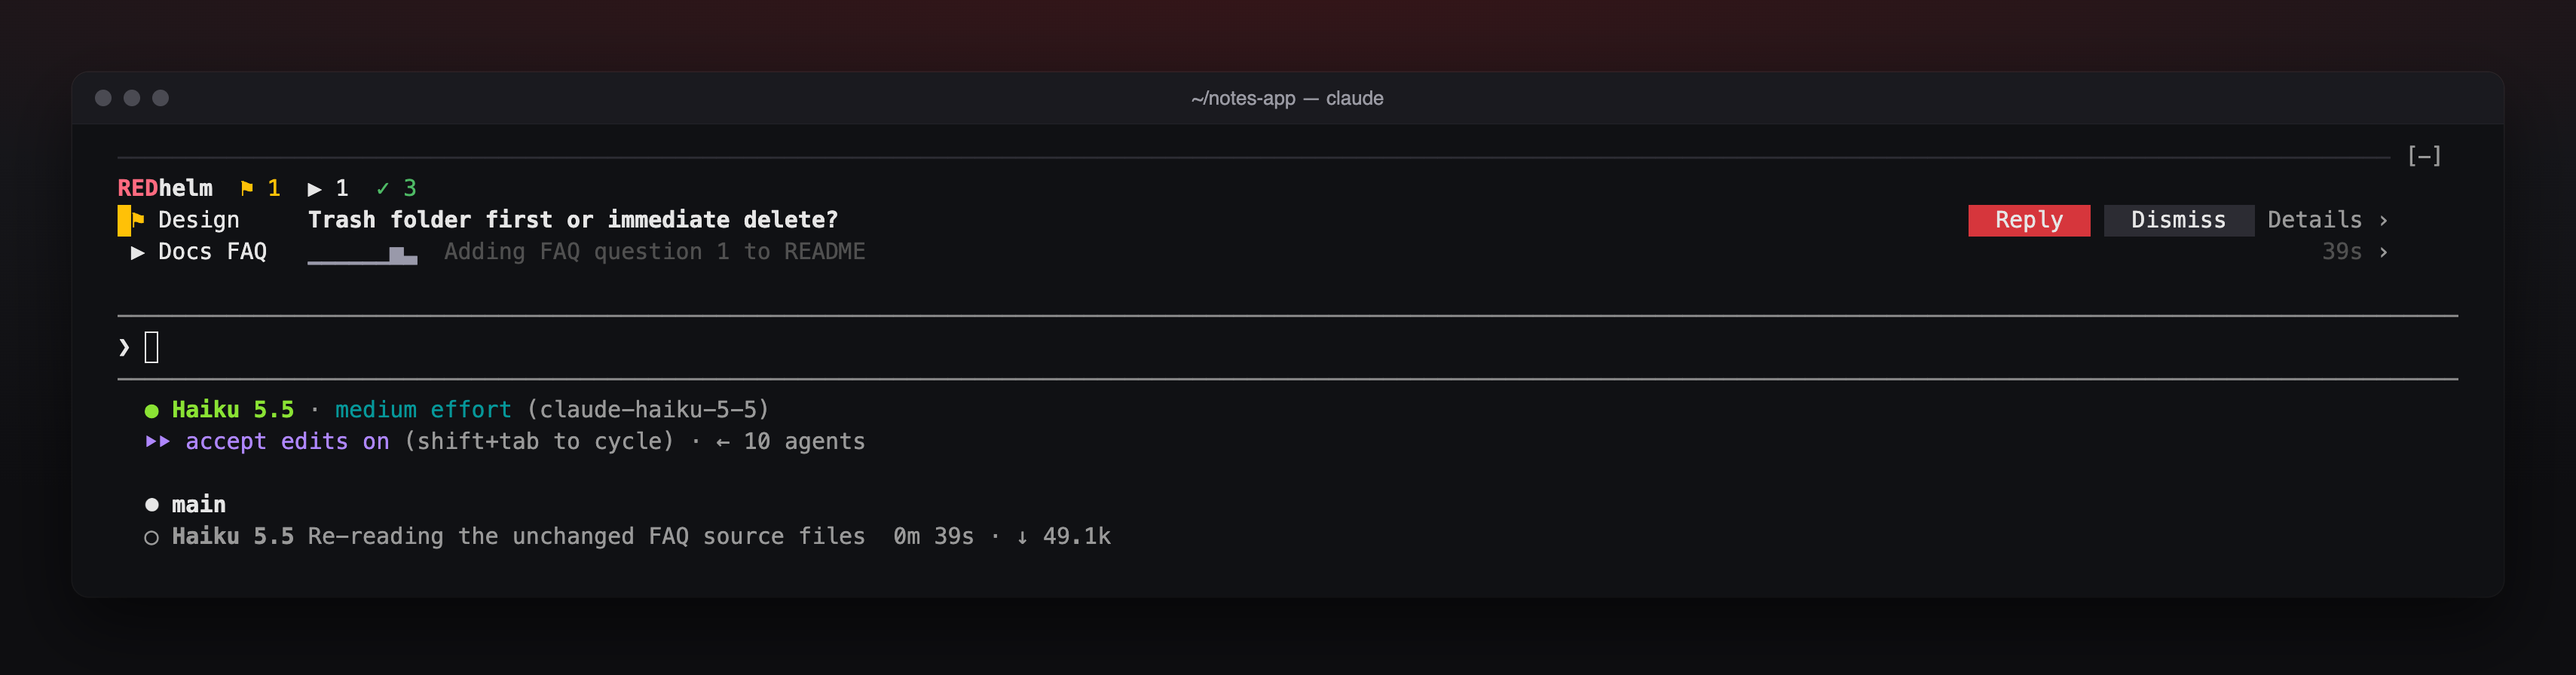
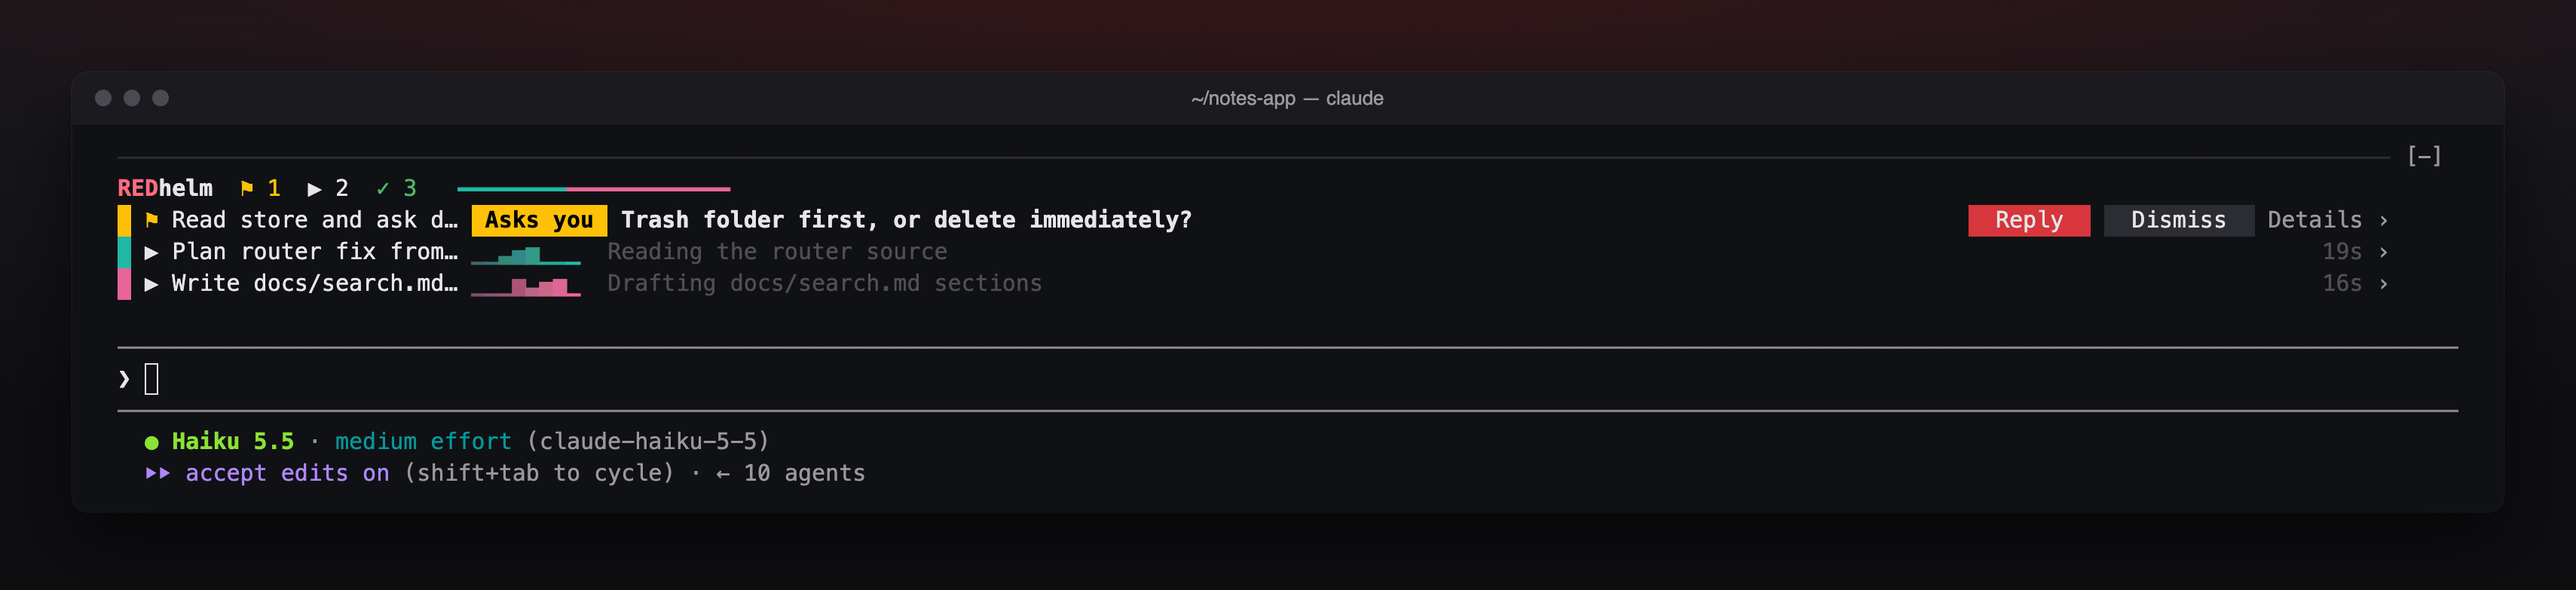
A README that shows REDhelm at work: new images, an animated demo, clearer docs
New screenshots from a live session: the sidebar with a question and three
working agents, the agent sheet, the bar above the prompt, the light theme,
and the four backgrounds side by side, plus a short animation of traces and
rings. The README leads with install and a quick tour, then each feature,
commands, settings, troubleshooting, and privacy and cost. Plugin and
marketplace descriptions match.

diff --git a/README.md b/README.md
@@ -1,168 +1,195 @@
+<div align="center">
+
 # REDhelm
 
-A live sidebar for your Claude Code agents. See what every agent is doing, where its
-work is landing, and which one needs you — and know which model is actually answering.
+**A live control panel for your Claude Code agents.**<br>
+See what every agent is doing, answer the ones that need you, and know which model is really answering, without leaving the terminal.
 
-![REDhelm docked beside the conversation: one agent asks a question, two are working](docs/images/redhelm-right.png)
+[![Release](https://img.shields.io/github/v/release/watLr/redhelm?color=d6363c&label=release)](https://github.com/watLr/redhelm/releases)
+[![License: MIT](https://img.shields.io/badge/license-MIT-555)](LICENSE)
+[![Claude Code](https://img.shields.io/badge/Claude%20Code-2.1.289%2B-555)](https://claude.com/claude-code)
 
-> **Status: early release (0.7.1).** Covered by tests and checked with real agents:
-> the agent list and sheet, **Message** and **Stop**, the model guard, settings and
-> workflows. Issues welcome.
+<img src="docs/images/redhelm-right.png" alt="REDhelm docked beside a Claude Code conversation: one agent asks a question, three are working" width="920">
 
-## What it does
-
-<img src="docs/images/redhelm-sheet.png" alt="An agent's sheet: its live trace, task, steps, files, model and last words" width="300" align="right">
-
-- **Every agent is a live signal.** One row per agent, on one aligned grid: a state
-  glyph, its name, a trace of its tool calls over the last half minute, and how long it
-  has run. The trace moves while the agent works and flattens when it goes quiet. Under
-  the name, a few words on what it is doing.
-- **Each agent has its colour.** A stripe down its row, and its trace drawn as a comet
-  tail: full colour at the newest call, fading to grey into the past. Under REDhelm's
-  name, a thin line in the same colours shows each working agent's share of the last
-  minute's tool calls, so the busiest one is the longest.
-- **A live background.** In the sidebar, REDhelm sits on black with a quiet grid of `+`
-  signs. Each tool call sends a ring through the grid in its agent's colour, from its
-  place on the activity line. Rows sit on plates of the background's colour, so text
-  never lands on the pattern. The **Background** setting also offers a still grid, drifting
-  ASCII clouds (the way an ASCII video renderer draws), a slow red glow, or none.
-  REDhelm follows Claude Code's theme (`/theme`): black with a grey grid in a dark theme,
-  white with a light grey one in a light theme; with `auto`, it follows your desktop's
-  appearance. If your terminal is light but Claude Code's theme is dark, Claude Code draws
-  dark colours and so does REDhelm: set `/theme` to light to match.
-- **States at a glance.** `▶` working · `▷` quiet (no action for 15 minutes) · `◆`
-  waiting on another agent or on work it started · `⚑` asks you · `✓` finished · `✕`
-  failed or stopped. The header counts them: `⚑ 1  ▶ 2  ✓ 1`.
-- **Words written for you.** Claude Code's small model (Haiku, low effort) writes each
-  working agent's headline ("Editing setup.md troubleshooting") and each question's
-  short title, the way `/btw` answers a side question. REDhelm's own plain words show
-  until a label arrives, and whenever the model is slow or switched off.
-- **Agent sheet.** Click an agent for its trace over the last minute, its task, latest
-  steps, the files it changed, its model and effort, and its last words. Agents that
-  started before REDhelm are filled in from Claude Code's record of their conversation.
-  In the sidebar the sheet takes the panel's place, with **← Back** to your agents; from
-  the bar above the prompt it opens on its own and closes with Esc.
-- **Message and Stop** appear when you point at a working agent, and sit at the top of
-  its sheet.
-- **Messaging an agent.** Message fills your prompt with `→ name: `; type and press Enter
-  to send it to that agent instead of Claude (you can also type `→ name: message`
-  yourself). What you were typing to Claude is kept and comes back after. Changed your
-  mind? **Cancel** on the "Writing to …" line puts your draft back.
-- **Needs you.** An agent that asks you something gets a card with an amber edge, its
-  question in a line and a **Reply** button; the whole question is in its sheet. Claude
-  Code's small, fast model tells a question from a report (with a plain check of the
-  wording if the model can't be reached); a report is not a question, so it pops up
-  briefly and becomes the agent's last words in its sheet instead. A
-  question clears once you or Claude answer it. From an agent that has ended, it stays
-  30 minutes (a reply still resumes that agent), with **Dismiss** to put it away sooner.
-- **Updates.** When a newer REDhelm is published, a quiet line at the bottom of the
-  panel says so, with **Update**. Nothing pops up. A copy run from a local folder is
-  its own source and is never offered one.
-- **Where work lands.** A warning when two live agents edit the same file.
-- **Workflows.** Picks up lane boards (`docs/aaa/board/lanes.json`), status boards
-  (`.status-board/`), REDStudio (`.redstudio/`) and REDManager (`.redmanager/`) in the
-  project and shows their progress.
-- **Model guard.** If Claude Code switches models on its own, your next prompt and
-  Claude's tools wait until you choose with `/model`. If your saved default moved to a
-  newer version, the session tells you once.
-- **Long-turn notifications.** A desktop notification (macOS, Linux) when a long turn
-  finishes.
+</div>
 
 ## Install
 
-Requires Claude Code with function-hook mods (2.1.289 or newer).
-
-```
+```sh
 claude plugin marketplace add watLr/redhelm
 claude plugin install redhelm@redhelm
 ```
 
-Restart running sessions (`/restart`) to load it.
+Then restart running sessions (`/restart`). REDhelm opens by itself when agents start, or run `/redhelm`.
 
-## Use
+**Needs:** Claude Code 2.1.289 or newer. The sidebar needs the fullscreen layout (`/tui fullscreen`) and a terminal at least 110 columns wide; otherwise REDhelm sits above the prompt.
 
-| Command | |
+## At a glance
+
+<img src="docs/images/redhelm-live.gif" alt="REDhelm live: activity traces grow, rings cross the background, an agent finishes" width="360" align="right">
+
+- **Live agent list.** One aligned row per agent: its state, name, a trace of its tool calls, and how long it has run.
+- **Questions first.** An agent that asks you something gets an amber card with **Reply**, at the top.
+- **Plain words.** A short headline under each agent, written by Claude Code's small model.
+- **One click deep.** Click an agent for its task, steps, files, model and last words.
+- **Message and Stop.** Point at a working agent to message it or stop it.
+- **Model guard.** Holds your prompt if Claude Code switches models on its own.
+- **A live background.** Each tool call sends a ring through the sidebar in its agent's colour.
+- **Light and dark.** Follows Claude Code's theme.
+
+<br clear="right">
+
+## What you see
+
+### Every agent is a live signal
+
+Each agent has its own colour: a stripe down its row, and a trace of its tool calls over the last half minute, brightest at the newest call and fading into the past. The trace moves while the agent works and flattens when it goes quiet. Under REDhelm's name, a thin line in the same colours shows each working agent's share of the last minute's calls, so the busiest one is the longest.
+
+| Glyph | State |
+|:---:|---|
+| `▶` | working |
+| `▷` | quiet: no action for 15 minutes |
+| `◆` | waiting on another agent, or on work it started |
+| `⚑` | asks you something |
+| `✓` | finished |
+| `✕` | failed or stopped |
+
+The header counts them (`⚑ 1  ▶ 3  ✓ 2`). Finished agents fold into one line until you want them.
+
+### Questions that wait for you
+
+An agent that asks you something gets an amber-edged card with its question in a line, **Reply**, and **Details**. Reply fills your prompt with `→ name: `; type and press Enter, and it goes to that agent instead of Claude. Anything you were typing to Claude is kept and comes back after.
+
+REDhelm tells a question from a report: Claude Code's small model reads each message (with a plain check of the wording if it can't be reached). A report becomes the agent's last words instead of asking for you. A question clears once you or Claude answer it; one from an agent that has ended stays 30 minutes (a reply still reaches it), with **Dismiss** to put it away sooner.
+
+### Everything about one agent
+
+<img src="docs/images/redhelm-sheet.png" alt="An agent's sheet: its trace over the last minute, task, steps, files, model and last words" width="330" align="right">
+
+Click an agent to open its sheet in place of the list:
+
+- its activity over the last minute
+- **Message** and **Stop**, first, so they're never scrolled away
+- the task it was given (with **More** for the whole brief)
+- its latest steps, with how long ago
+- the files it changed
+- its model, effort and context size
+- its last words
+
+**← Back** returns to your agents. Agents that started before REDhelm loaded are filled in from Claude Code's record of their conversation.
+
+<br clear="right">
+
+### A background that moves with the work
+
+<img src="docs/images/redhelm-backgrounds.png" alt="The four sidebar backgrounds: ripples, lattice, field and ember" width="920">
+
+The sidebar sits on black with a quiet grid of `+` signs. Each tool call sends a ring through the grid in its agent's colour, starting from its place on the activity line. Rows sit on plates of the background colour, so text never lands on the pattern. Choose another in `/config` → **Background**: a still grid, drifting ASCII clouds, a slow red glow, or none.
+
+### Light and dark
+
+<img src="docs/images/redhelm-light.png" alt="REDhelm in Claude Code's light theme" width="330" align="right">
+
+REDhelm follows Claude Code's theme (`/theme`): black with a grey grid in a dark theme, white with a light grey grid in a light theme. With `auto` it follows your desktop's appearance.
+
+If your terminal is light but Claude Code's theme is dark, Claude Code draws dark-theme colours, and so does REDhelm. Set `/theme` to light to match.
+
+<br clear="right">
+
+### Above the prompt
+
+<img src="docs/images/redhelm-bottom.png" alt="REDhelm as a bar above the prompt: a question and two working agents, one line each" width="920">
+
+`/redhelm bottom` lays the same panel out as a bar above the prompt, one line per agent, with names in one column. With the panel closed, a single line appears there only when something needs you.
+
+### And quietly, in the background
+
+- **Model guard.** If Claude Code switches models on its own, your next prompt and Claude's tools wait until you choose with `/model`. If your saved default moved to a newer version, the session tells you once. `/redhelm models` shows which models actually answered.
+- **Where work lands.** A warning when two live agents edit the same file.
+- **Workflows.** Shows progress from lane boards (`docs/aaa/board/lanes.json`), status boards (`.status-board/`), REDStudio (`.redstudio/`) and REDManager (`.redmanager/`) in the project.
+- **Long-turn notifications.** A desktop notification (macOS, Linux) when a long turn finishes.
+- **Updates.** When a newer REDhelm is published, a quiet line at the bottom of the panel offers **Update**. Nothing pops up.
+
+## Commands
+
+| Command | What it does |
 |---|---|
 | `/redhelm` | Open or close the panel |
 | `/redhelm right` · `/redhelm bottom` | Sidebar beside the conversation, or a bar above the prompt |
 | `/redhelm setup` | Review the Claude Code settings REDhelm recommends |
-| `/redhelm models` | Which models actually answered this session, recent switches, and what REDhelm's labels used |
-| `/redhelm update` | Install the newer REDhelm, if there is one (then `/reload-plugins`) |
+| `/redhelm models` | Which models answered this session, recent switches, and what REDhelm's labels used |
+| `/redhelm update` | Install a newer REDhelm, if there is one (then `/reload-plugins`) |
 
-![REDhelm above the prompt](docs/images/redhelm-bottom.png)
+You can also write to an agent directly: `→ name: your message`.
 
-The right sidebar needs Claude Code's fullscreen layout (`"tui": "fullscreen"`) and a
-terminal at least 110 columns wide. That minimum is Claude Code's own and plugins cannot
-change it; in a narrower terminal, or the classic layout, REDhelm opens above the prompt
-instead.
+## Settings
 
-REDhelm's buttons need the fullscreen layout too: on the classic layout the terminal keeps
-the mouse, so clicks never reach them, and REDhelm says so under its name. Run
-`/tui fullscreen` to turn fullscreen on. Claude Code also switches fullscreen off by itself
-after a couple of launches that fail to start, and the classic layout stays until you run
-`/tui fullscreen` (or set `CLAUDE_CODE_NO_FLICKER=1`).
-
-### Setup card
-
-On first run REDhelm offers a short list of Claude Code settings. Nothing changes until
-you press **Apply**:
-
-- Pause instead of switching models when safeguards flag a message
-- Show how long each turn took, and timestamp messages
-- Push to your phone when a question is waiting (where available)
-- A status line with the model that actually answers and its effort, plus model and
-  effort on each row of the agent panel (needs `python3`)
-
-### Settings
-
-Every option is a row in `/config`, per user:
+Every option is a row in `/config`:
 
 | Setting | Values | Default |
 |---|---|---|
 | Placement | right · bottom | right |
-| REDhelm line under the prompt | off · problems · always | off |
+| Background (sidebar, terminal) | ripples · lattice · field · ember · none | ripples |
+| Motion: traces move, a new question's edge flashes | on · off | on |
+| Labels: headlines and question titles | haiku · plain | haiku |
 | When the model changes without you | hold · warn · off | hold |
+| REDhelm line under the prompt | off · problems · always | off |
 | Desktop notification after (seconds) | number, 0 = off | 120 |
 | Open REDhelm by itself | on · off | on |
 | Pop-ups when agents finish or message you | on · off | on |
-| Motion: traces move, a new question's edge flashes | on · off | on |
-| Labels: headlines and question titles | haiku · plain | haiku |
-| Background (sidebar, terminal) | ripples · lattice · field · ember · none | ripples |
 
-## Privacy
+On first run REDhelm also offers a short setup card of Claude Code settings it recommends. Nothing changes until you press **Apply**:
 
-REDhelm reads your project folder and Claude Code's own session data on your machine.
-What it remembers (model switches, the newest model versions seen, which setup items you
-handled) stays in Claude Code's plugin storage on your machine.
+- pause instead of switching models when safeguards flag a message
+- show how long each turn took, and timestamp messages
+- push to your phone when a question is waiting (where available)
+- a status line with the model that actually answers and its effort, plus model and effort on each agent row (needs `python3`)
 
-It reaches out in two ways:
+## Troubleshooting
 
-- **Update check.** A few times a day it reads REDhelm's published version number from
-  GitHub. It sends nothing about you or your work.
-- **Labels.** While REDhelm is on screen, it asks Claude Code's small model for short
-  headlines and question titles. Each request carries an agent's task (first 300
-  characters), its latest steps and words, or a question an agent asked; it goes through
-  Claude Code, to the same provider as the rest of your session, and counts toward your
-  usage: a few hundred tokens each. At most one request runs at a time; an agent's
-  headline is asked for again only when its steps change, at most every 45 seconds; no
-  more than 30 requests go out in an hour; answers are reused. `/redhelm models` shows
-  what labels have used this session. Set Labels to `plain` to turn them off.
+<details>
+<summary><b>Buttons don't respond to clicks</b></summary>
 
-## Behaviour notes
+Clicks need Claude Code's fullscreen layout; on the classic layout the terminal keeps the mouse, and REDhelm says so under its name. Run `/tui fullscreen`. Claude Code also turns fullscreen off by itself after a couple of launches that fail to start; it stays off until you run `/tui fullscreen` (or set `CLAUDE_CODE_NO_FLICKER=1`).
+</details>
 
-- Runs only in interactive sessions; `claude -p`, SDK and other headless runs are left
-  untouched.
-- If REDhelm itself ever errors, the call it was watching goes through unchanged.
+<details>
+<summary><b>REDhelm opens above the prompt instead of on the right</b></summary>
+
+The sidebar needs the fullscreen layout and a terminal at least 110 columns wide. That minimum is Claude Code's own; plugins can't change it.
+</details>
+
+<details>
+<summary><b>REDhelm is dark in my light terminal</b></summary>
+
+REDhelm follows Claude Code's theme, not the terminal's. Run `/theme` and pick light (or auto).
+</details>
+
+<details>
+<summary><b>I don't want the background, or the motion</b></summary>
+
+`/config` → **Background** → none brings back the plain pane; **Motion** → off holds every trace and background still.
+</details>
+
+## Privacy and cost
+
+REDhelm reads your project folder and Claude Code's own session data on your machine. What it remembers (model switches, the newest model versions seen, which setup items you handled) stays in Claude Code's plugin storage on your machine. It reaches out in two ways:
+
+- **Update check.** A few times a day it reads REDhelm's published version number from GitHub. It sends nothing about you or your work.
+- **Labels.** While REDhelm is on screen, it asks Claude Code's small model (Haiku, low effort) for short headlines and question titles. Each request carries an agent's task (first 300 characters), its latest steps and words, or a question an agent asked. It goes through Claude Code, to the same provider as the rest of your session, and counts toward your usage: a few hundred tokens each. One request at a time; an agent's headline is asked for again only when its steps change, at most every 45 seconds; no more than 30 requests an hour; answers are reused. `/redhelm models` shows what labels used. Set **Labels** to plain to turn them off.
+
+REDhelm runs only in interactive sessions (`claude -p`, the SDK and other headless runs are left alone), and if it ever errors, the call it was watching goes through unchanged.
 
 ## Develop
 
-```
+```sh
 claude plugin validate plugins/redhelm
 claude plugin test plugins/redhelm
+claude --plugin-dir ./plugins/redhelm   # try a working copy without installing
 ```
 
-Load a working copy without installing: `claude --plugin-dir ./plugins/redhelm`.
+REDhelm is a Claude Code plugin built on function hooks: [`hooks/register.tsx`](plugins/redhelm/hooks/register.tsx) wires the events, [`hooks/view.tsx`](plugins/redhelm/hooks/view.tsx) draws the panel, and the traces and backgrounds are pure modules ([`trace.ts`](plugins/redhelm/hooks/trace.ts), [`backdrop.ts`](plugins/redhelm/hooks/backdrop.ts)) repainted in place on the terminal. The design notes live in [`docs/superpowers`](docs/superpowers).
 
 ## License
 
-MIT — see [LICENSE](LICENSE).
+MIT. See [LICENSE](LICENSE).
